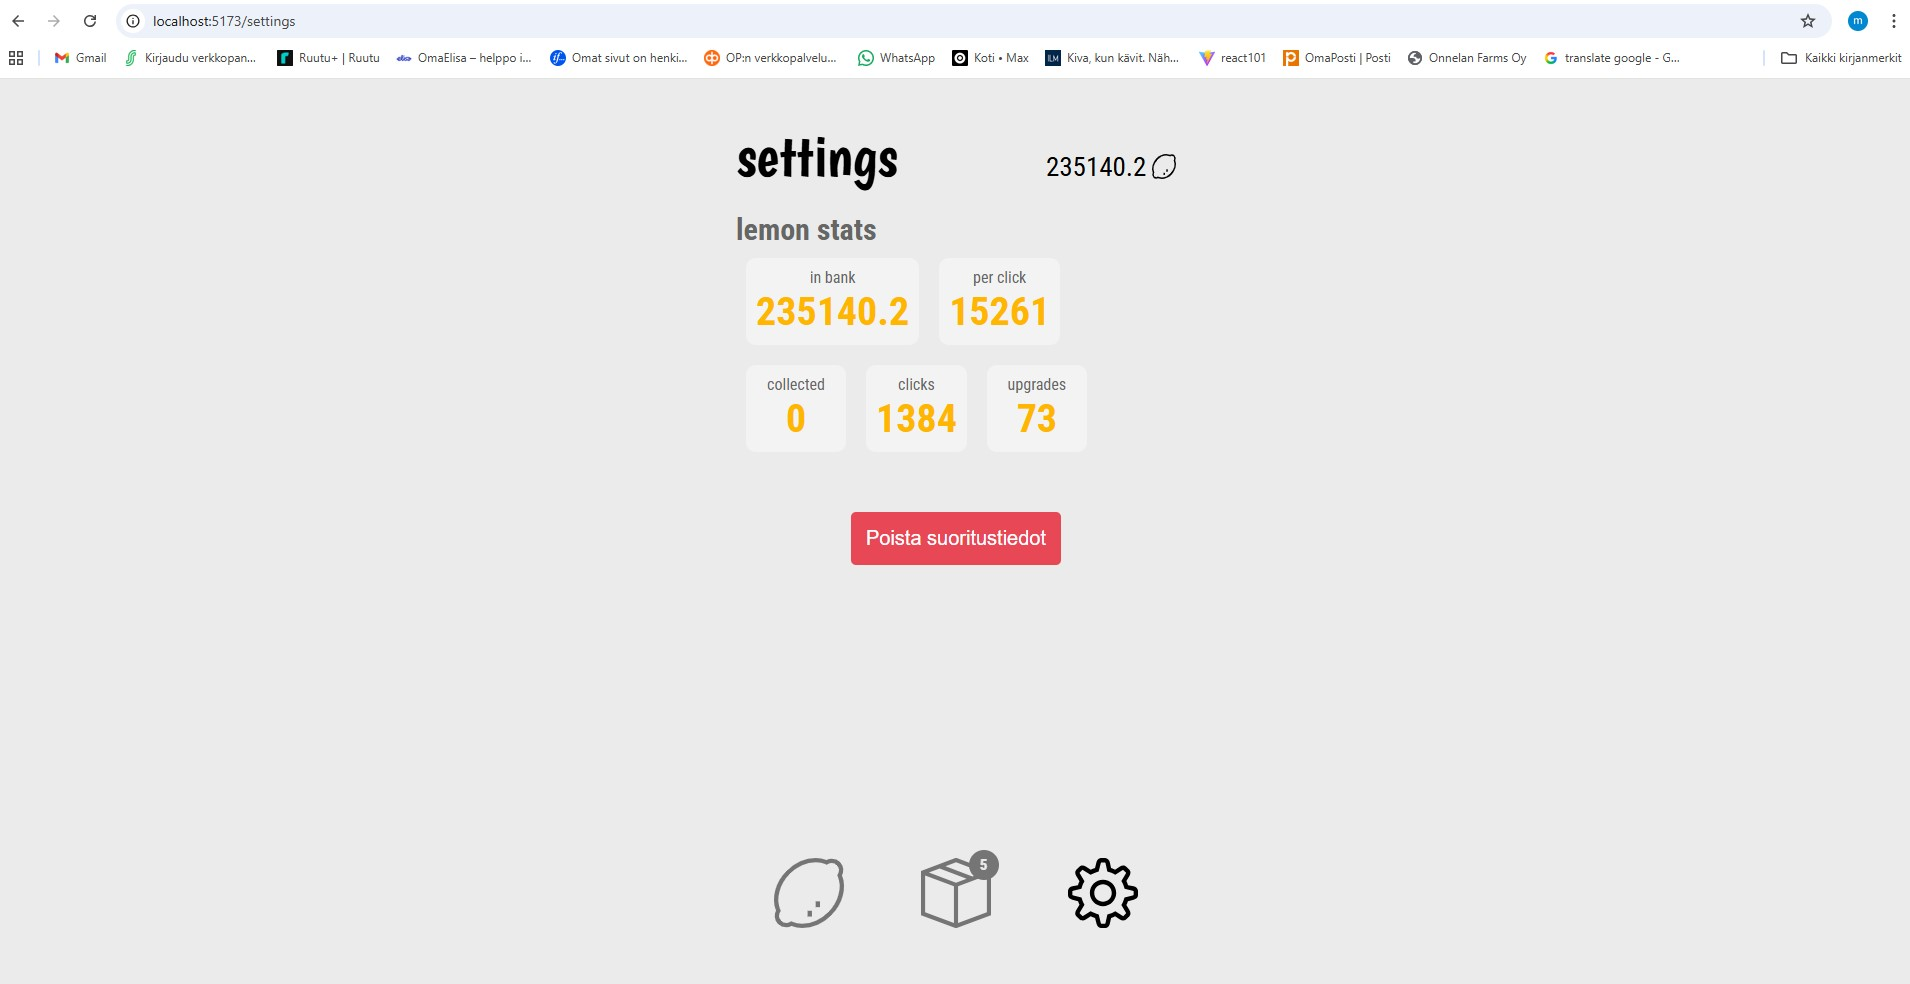
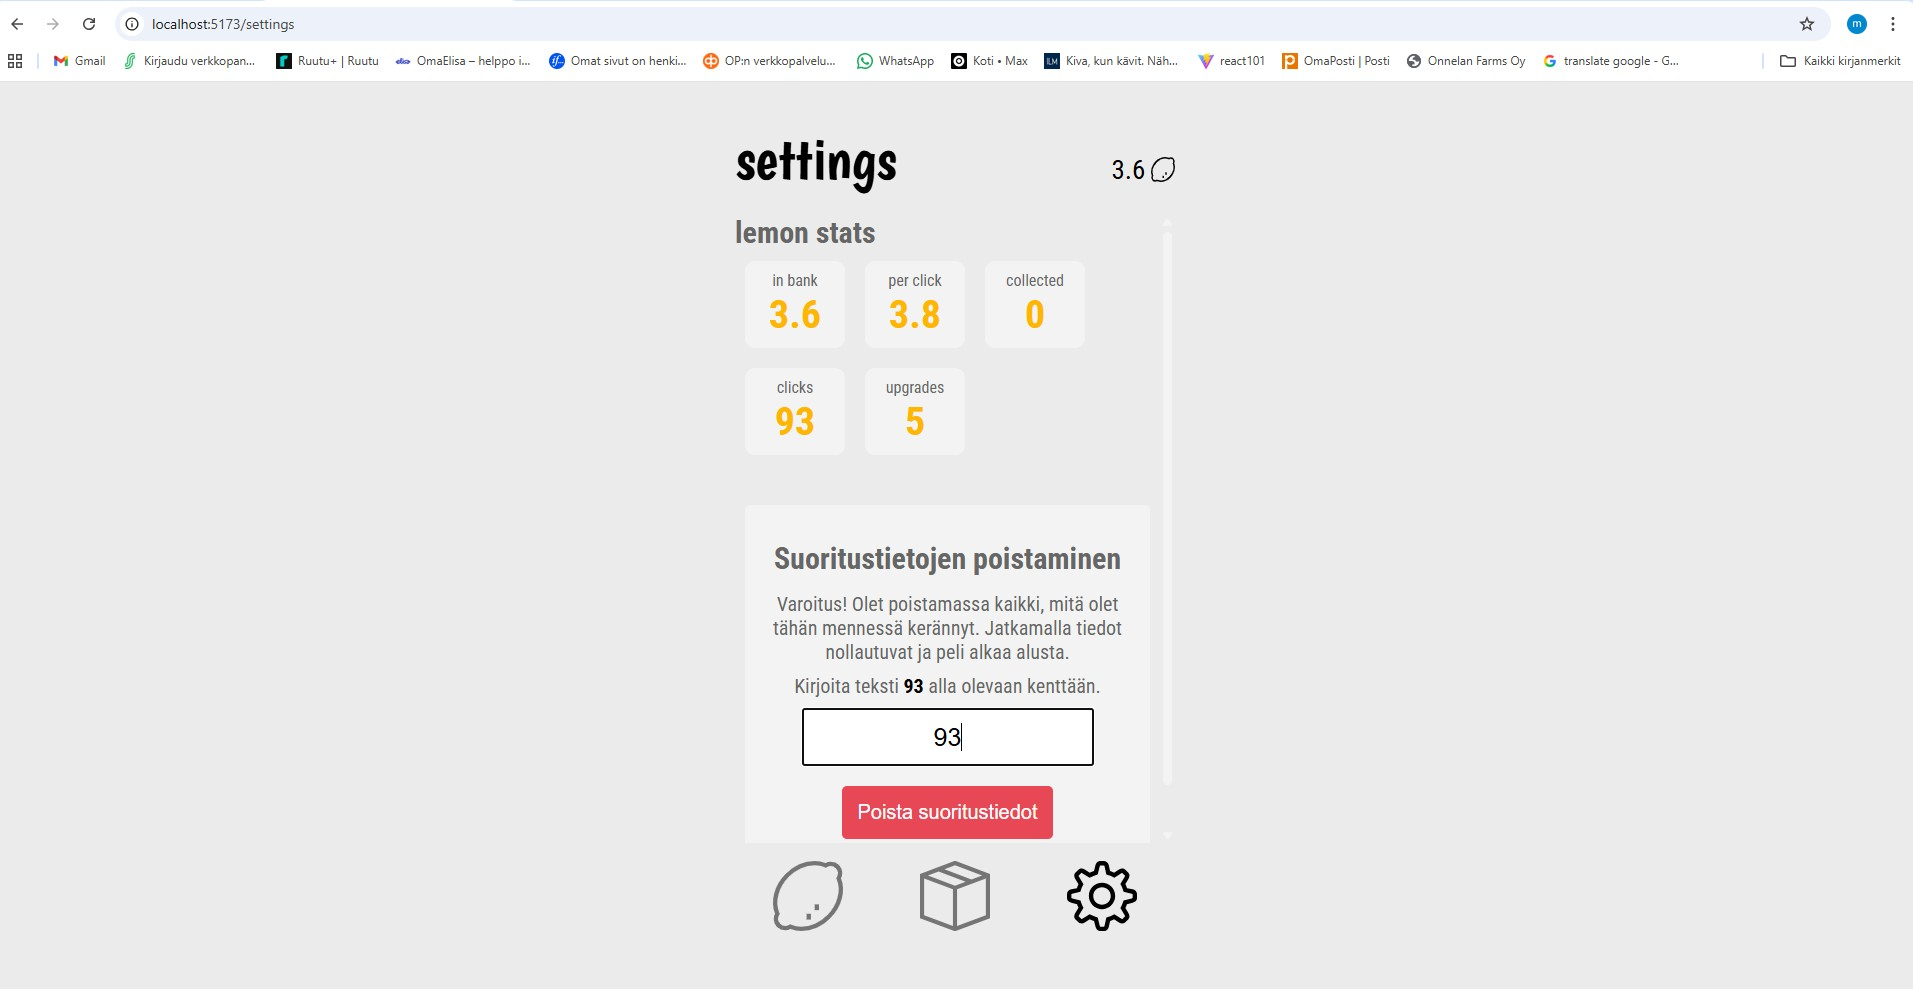
lisää local storage_1

diff --git a/src/App.jsx b/src/App.jsx
@@ -2,11 +2,9 @@ import round from './utils/round'
 import getPurchasableItems from './utils/getPurchasableItems'
 import items from './config/items.js'
 import AppRouter from './components/AppRouter'
-
-
+import useLocalStorage from './utils/useLocalStorage'
 
 import { useState } from 'react'
-
 import './App.css'
 
 function App() {
@@ -21,11 +19,11 @@ function App() {
   }
   
   
-  // Luodaan tilamuuttuja, johon tallennetaan tuotelista.
-    const [storeitems,setStoreitems] = useState(items)
+    // Luodaan taltio, johon tallennetaan tuotelista.
+    const [storeitems,setStoreitems, resetStoreitems] = useLocalStorage('lemon-items',items)
+
 
     // Luodaan tilamuuttuja, jossa tallennetaan napautusten määrä.
-    // Luodaan tilamuuttuja, johon tallennetaan pelin laskennalliset tiedot.
     // Esitellään pelin laskennalliset alkuarvot.
   const initialstats = {
     clicks: 0,
@@ -36,8 +34,9 @@ function App() {
     collected: 0
   }
 
-  // Luodaan tilamuuttuja, johon tallennetaan pelin laskennalliset tiedot.
-      const [stats, setStats] = useState(initialstats)
+      // Luodaan taltio, johon tallennetaan pelin laskennalliset tiedot.
+      const [stats, setStats, resetStats] = useLocalStorage('lemon-stats',initialstats)
+
 
 
       const handlePurchase = (id) => {

diff --git a/src/utils/useLocalStorage.js b/src/utils/useLocalStorage.js
@@ -1,0 +1,35 @@
+import { useEffect, useState } from "react"
+
+// Muuttaa muuttujan JSON-merkkijonoksi.
+const decode = (value) => {  
+  return JSON.stringify(value)
+}
+
+// Purkaa JSON-merkkijonon muuttujaksi.
+const encode = (value) => {
+  return JSON.parse(value)
+}
+
+const useLocalStorage = (key, defaultState) => {
+
+  // Tilamuuttujan määrittely, arvoksi haetaan joko
+  // localStorage-muuttujan arvo tai alkuarvo.
+  const [value, setValue] = useState(
+    encode(localStorage.getItem(key) || null) || defaultState
+  )
+
+  // Tallennetaan tilamuuttuja localStorageen aina,
+  // kun arvo muuttuu.
+  useEffect(() => {
+    localStorage.setItem(key, decode(value));
+  },  [value])
+
+  // Alkuarvojen palautusfunktio.
+  const resetValue = () => {
+    setValue(defaultState)
+  }
+
+  return [value, setValue, resetValue]
+}
+
+export default useLocalStorage
